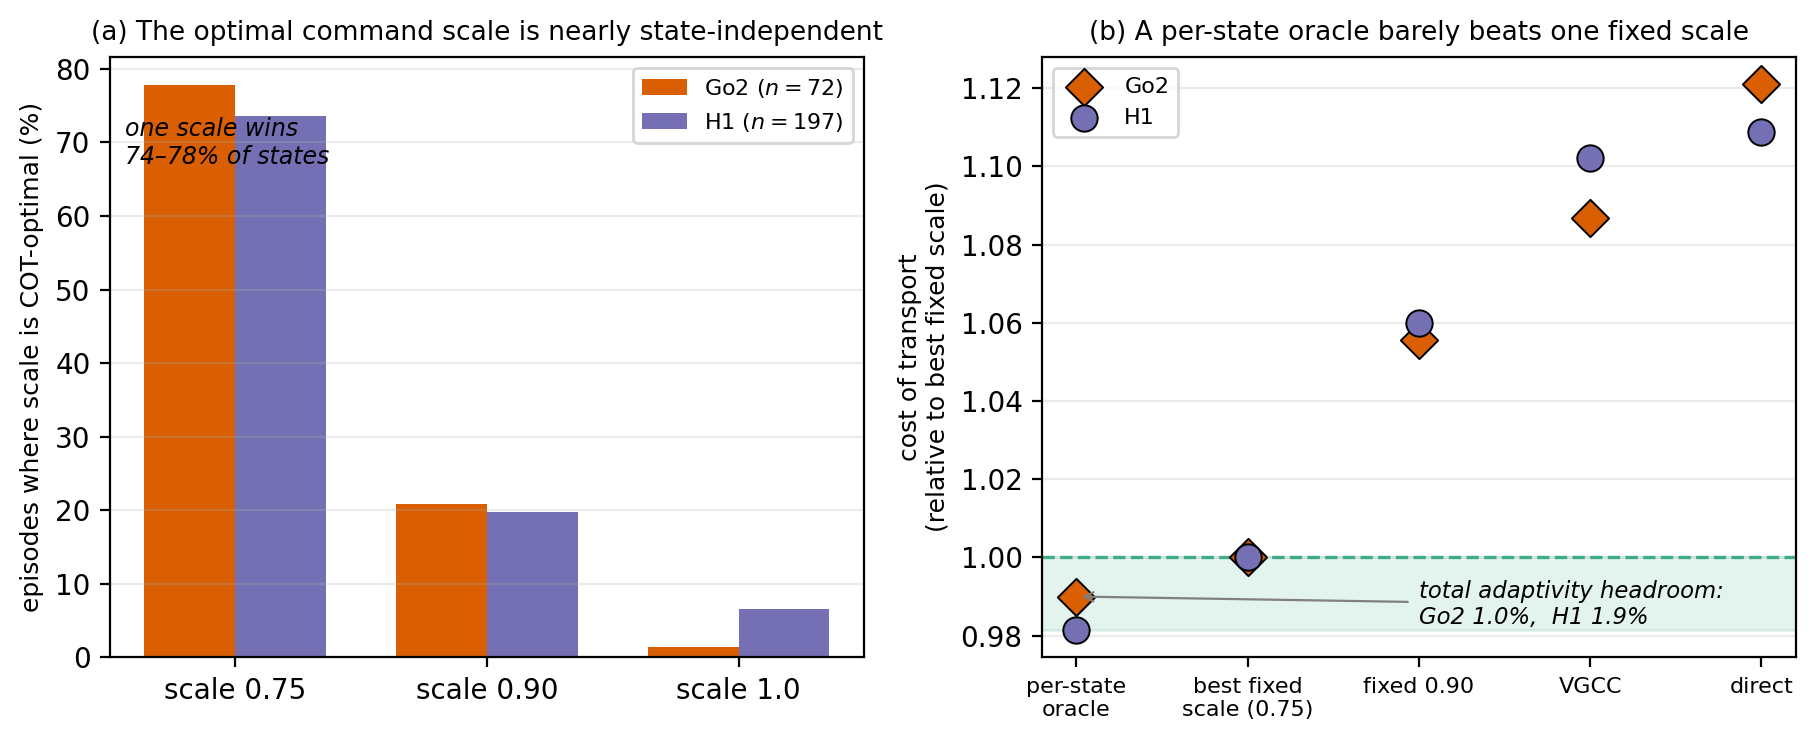
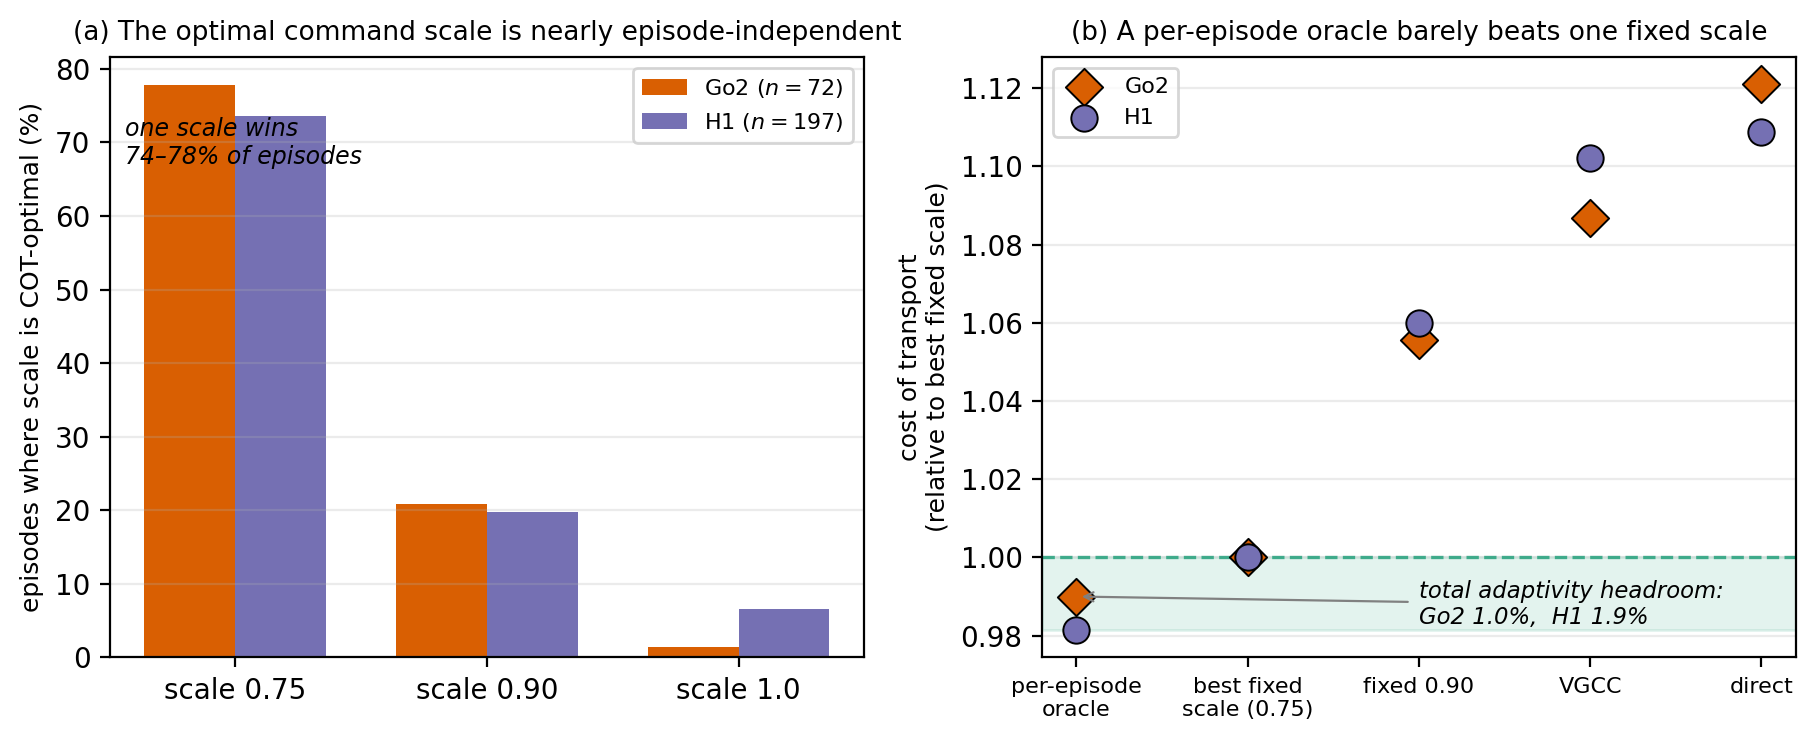
Scope the oracle claims honestly; add implementation appendix
The oracle picks one scale per episode from a three-point grid, so it
bounds episode-level scale selection, not any state-conditioned
controller: rename "per-state oracle" to "per-episode oracle"
throughout (text, figure labels, and the regenerated finding figure),
state explicitly that per-step methods like VGCC and the sampling MPC
are not formally bounded by it but empirically never undercut the best
fixed scale, and note the 2% figure is specific to the scale grid.
Tighten the abstract, contribution 3, and conclusion from "any
command-level controller" to command scaling, and fix the Q1 "main
result" label to "core method" (the central finding is Q3).

New Appendix A documents the values the paper never stated, verified
against the launch scripts: excitation protocol, response-model
architecture and training (2x256 ReLU MLP, AdamW), gate scalars
(s=0.75, alpha=0.5, epsilon=0.1, eta=0.02 m, E=4), posture floors, and
the MPC configuration. Section 3.2 pointed to protocol details that did
not exist; it now points here. finding_data.json moves into the repo so
the figure regenerates without the volatile scratch path.

diff --git a/paper/main.tex b/paper/main.tex
@@ -45,13 +45,14 @@ $R^2\approx0.75$ to $0.8$, from about a minute of simulation; terrain-relative p
 labels are essential). We use the model in two modes. As a controller, a
 training-free viability-gated compensator lowers the deployed policy's running cost
 and mechanical work across three embodiments (Go2, ANYmal-D, H1). As a measurement,
-it lets us bound the efficiency available at the command interface: from identical
-initial states, an omniscient per-state oracle beats the best single fixed command
-scale by under $2\%$, because the interface exposes almost no state-dependent
-efficiency structure. No learned per-state controller, ours or a heavier sampling
-MPC, clears that ceiling. Command-level efficiency compensation of a frozen
-locomotion policy therefore has a low and measurable ceiling; the contributions are
-the identification method that exposes it and the evaluation that measures it.
+it lets us bound the efficiency available from command scaling at that interface:
+from identical initial states, an omniscient per-episode oracle beats the best
+single fixed command scale by under $2\%$, because the efficiency-optimal scale is
+nearly the same in every episode. No state-conditioned controller we evaluate, ours
+or a heavier sampling MPC, clears that ceiling. Efficiency compensation by command
+scaling therefore has a low and measurable ceiling on these locomotion policies;
+the contributions are the identification method that exposes it and the evaluation
+that measures it.
 \end{abstract}
 
 \keywords{closed-loop system identification \and frozen policies \and command-interface control \and learned dynamics models \and legged locomotion}
@@ -97,16 +98,17 @@ about the policy, is \emph{measurement}. Because the model predicts the situatio
 cost of every command, it lets us ask a question that logically precedes any
 controller: how much efficiency is there to gain at the command interface at all? We
 answer it against ground truth. From identical initial states we trace the
-cost-of-transport--time frontier of command-level efficiency and bound it with an
-omniscient per-state oracle and a same-budget sampling MPC. The finding is sharp: the
-frontier is \emph{narrow}. A single tuned fixed command scale lies within $2\%$ of an
-oracle that picks the best scale for every state, because the policy's command
-interface exposes almost no state-dependent efficiency structure, and no learned
-per-state gate, VGCC or a heavier MPC, clears that ceiling. This reframes a growing
-family of methods that improve frozen policies at the command interface: for
-\emph{efficiency} on rough-terrain locomotion, the achievable gain over a well-chosen
-fixed command is bounded and small, and the identification method is precisely the
-instrument that measures that bound before one invests in a controller.
+cost-of-transport--time frontier of command scaling and bound it with an
+omniscient per-episode oracle and a same-budget sampling MPC. The finding is sharp:
+the frontier is \emph{narrow}. A single tuned fixed command scale lies within $2\%$
+of an oracle that picks the best scale for every episode, because the
+efficiency-optimal scale barely varies from episode to episode, and no
+state-conditioned method we test, VGCC or a heavier MPC, clears that ceiling. This
+reframes a growing family of methods that improve frozen policies at the command
+interface: for \emph{efficiency} on rough-terrain locomotion, the gain available
+from state-conditioned command scaling over a well-chosen fixed scale is bounded
+and small, and the identification method is precisely the instrument that measures
+that bound before one invests in a controller.
 
 \textbf{Contributions.}
 (1)~A method for closed-loop command-response identification of a frozen,
@@ -118,10 +120,10 @@ improves the deployed proportional baseline across three embodiments (Go2, ANYma
 H1) with one configuration and an exact fallback.
 (3)~A measurement, enabled by the identified model and validated against ground
 truth: through paired, iso-time, oracle, and same-budget-MPC analyses we show that
-the cost-of-transport frontier of command-level efficiency is narrow: a tuned fixed
-command scale lies within $2\%$ of an omniscient per-state oracle, which bounds what
-\emph{any} command-level efficiency controller, learned or not, can buy on this
-policy class.
+the cost-of-transport frontier of command scaling is narrow: a tuned fixed command
+scale lies within $2\%$ of an omniscient per-episode oracle over the same scales, a
+bound on what episode-level scale selection, learned or not, can buy on these
+policies, and one that no state-conditioned method we evaluate escapes.
 
 \section{Related Work}
 \label{sec:related}
@@ -415,7 +417,8 @@ f_\phi : (o_t, c) \;\longmapsto\; \bigl(\widehat{\Delta x}, \widehat{\Delta y}, 
 where hats mark quantities \emph{predicted} by the model, plain symbols are
 measured, and $\hat C$ is the chosen cost channel. The implementation takes the
 full policy observation with its command component replaced by the candidate
-command; training and split details are reported in the experimental protocol.
+command; architecture, training, and split details are given in
+Appendix~\ref{app:impl}.
 Conditioning on the full observation is what makes the predictions
 \emph{situational}: the same candidate command is predicted to cost differently on
 different terrain and from different gait states, which is precisely the
@@ -487,7 +490,7 @@ compensation and issues the aggressive direct command until height recovers
 (\emph{restore}). Both reflexes default toward, not away from, the strong direct
 controller, preserving R2. The model is thus a veto on a known low-cost operating
 point, not an unconstrained optimizer. All scalars are selected on development
-seeds and frozen before confirmation.
+seeds and frozen before confirmation; Appendix~\ref{app:impl} lists their values.
 
 \begin{algorithm}[t]
 \caption{Viability-Gated Command Compensation (one high-level step)}
@@ -523,7 +526,7 @@ fallback everywhere else.
 \label{sec:results}
 
 The experiments follow the structure of the method. \textbf{Q1 (identification,
-the main result)}: how accurately and how cheaply can the closed-loop command
+the core method)}: how accurately and how cheaply can the closed-loop command
 response be identified, and what labeling makes it work
 (Section~\ref{sec:results-model})? \textbf{Q2 (application)}: does a compensator
 built on the identified model improve the deployed proportional baseline, and does a
@@ -536,7 +539,7 @@ state-dependent efficiency structure does the command interface expose at all
 (Sections~\ref{sec:results-baselines}--\ref{sec:results-headroom})? Q1 establishes the
 method; Q2 shows what the identified model lets us \emph{do}; Q3 shows what it lets us
 \emph{conclude}. The conclusion, that a tuned fixed scale is within $2\%$ of an
-omniscient per-state oracle, is the result we consider most important.
+omniscient per-episode oracle, is the result we consider most important.
 
 \subsection{Setup}
 \label{sec:setup}
@@ -618,7 +621,8 @@ morphology-adapted transfer, not zero-tuning transfer.
 All reported results use disjoint evaluation seeds: harder $5$ seeds $\times$ $10$
 trials $\times$ $8$ targets (400 episodes per method), moderate $3\times10$ (120),
 holdout $3\times5$ (60), ANYmal-D $3\times5\times8$ (120), H1 $3\times5\times8$
-(120). Per-robot response models are identified with the identical recipe.
+(120). Per-robot response models are identified with the identical recipe
+(Appendix~\ref{app:impl}).
 We report episode-level bootstrap 95\% CIs as descriptive uncertainty summaries.
 Because episodes share a small number of environment seeds, these intervals do not
 establish equivalence or noninferiority; paired seed-level differences are
@@ -757,7 +761,8 @@ frontier (Figure~\ref{fig:frontier}).
 
 A more elaborate use of the model does not close the gap. A same-budget sampling MPC,
 which plans recursively over the scales $\{0.75,0.90,1.0\}$ with the identified model
-instead of applying VGCC's viability gate, was run paired on three of the six seeds.
+instead of applying VGCC's viability gate (Appendix~\ref{app:impl}), was run paired
+on three of the six seeds.
 It reaches COT $0.757$, below direct control ($0.765$) but above both VGCC ($0.736$)
 and fixed $0.90$ ($0.721$). Planning more elaborately over the same model beats
 neither the fixed scale nor VGCC, for the reason Section~\ref{sec:results-headroom}
@@ -796,7 +801,7 @@ reactive governor & 0.771 & 128.51 & 44.69 & 2.947 & 0.740 \\
 \begin{figure}[t]
 \centering
 \includegraphics[width=0.72\linewidth]{frontier.png}
-\caption{Cost of transport versus completion time on six locked seeds (Go2 harder targets, $n=96$/method, identical initial states). The dashed line is the frontier traced by the direct policy and two fixed command scales. VGCC reduces COT relative to direct control but sits just above the fixed-scaling frontier, while attaining the highest success ($0.80$). The reactive governor is dominated. VGCC's advantage is not frontier dominance but that a single configuration reaches this near-frontier operating point with no pre-selected scale, keeps the highest success, and (Section~\ref{sec:results-coverage}) transfers across the command space and across embodiments, where a fixed scale must be chosen per robot and per deadline in advance. The narrow vertical spread of all methods anticipates Section~\ref{sec:results-headroom}: even an omniscient per-state oracle barely improves on the fixed scale (Figure~\ref{fig:finding}), so this band is close to all that command-level efficiency can buy.}
+\caption{Cost of transport versus completion time on six locked seeds (Go2 harder targets, $n=96$/method, identical initial states). The dashed line is the frontier traced by the direct policy and two fixed command scales. VGCC reduces COT relative to direct control but sits just above the fixed-scaling frontier, while attaining the highest success ($0.80$). The reactive governor is dominated. VGCC's advantage is not frontier dominance but that a single configuration reaches this near-frontier operating point with no pre-selected scale, keeps the highest success, and (Section~\ref{sec:results-coverage}) transfers across the command space and across embodiments, where a fixed scale must be chosen per robot and per deadline in advance. The narrow vertical spread of all methods anticipates Section~\ref{sec:results-headroom}: even an omniscient per-episode oracle barely improves on the fixed scale (Figure~\ref{fig:finding}), so this band is close to all that command scaling can buy.}
 \label{fig:frontier}
 \end{figure}
 
@@ -806,45 +811,53 @@ reactive governor & 0.771 & 128.51 & 44.69 & 2.947 & 0.740 \\
 \begin{figure}[t]
 \centering
 \includegraphics[width=\linewidth]{finding.png}
-\caption{The paper's central finding, on paired-successful episodes (identical initial states). \textbf{(a)} The COT-optimal command scale is nearly the same in every state: a single scale is optimal in $74$--$78\%$ of episodes on both robots, so there is little for a state-conditioned controller to specialize to. \textbf{(b)} Cost of transport relative to the best single fixed scale ($=1$): an \emph{omniscient} per-state oracle that picks the best scale for every episode lies only $1.0\%$ (Go2) and $1.9\%$ (H1) below that fixed scale; the entire shaded band is the total adaptivity headroom available to \emph{any} state-conditioned method. VGCC and direct control sit above the fixed scale, not because they model the policy poorly but because the headroom they compete for is nearly empty.}
+\caption{The paper's central finding, on paired-successful episodes (identical initial states). \textbf{(a)} The COT-optimal command scale is nearly the same in every episode: a single scale is optimal in $74$--$78\%$ of episodes on both robots, so there is little for a scale selector to specialize to. \textbf{(b)} Cost of transport relative to the best single fixed scale ($=1$): an \emph{omniscient} per-episode oracle that picks the best scale for every episode lies only $1.0\%$ (Go2) and $1.9\%$ (H1) below that fixed scale; the entire shaded band is the episode-level adaptivity headroom available to scale selection. VGCC and direct control sit above the fixed scale, not because they model the policy poorly but because the headroom they compete for is nearly empty.}
 \label{fig:finding}
 \end{figure}
 
 The comparisons so far are between specific controllers. The identified model lets us
-ask the question underneath them, the one that determines whether \emph{any}
-state-conditioned command-level controller can succeed here: how much
-state-dependent efficiency structure does the policy's command interface expose? If
-the efficiency-optimal command scale is nearly the same in every state, then no
-per-state gate, however good its model, can beat a single well-chosen scale, and the
-entire enterprise of learned command-level efficiency compensation has a low ceiling.
-We measure that ceiling directly.
+ask the question underneath them, the one that determines whether a
+state-conditioned command-scaling controller can succeed here: how much
+situation-dependent efficiency structure does the policy's command interface expose?
+If the efficiency-optimal command scale is nearly the same in every situation, then
+no state-conditioned gate, however good its model, can beat a single well-chosen
+scale, and learned command-scaling compensation has a low ceiling.
+We measure the episode-level component of that ceiling directly.
 
 For every episode we have the ground-truth cost of transport of the direct command
 ($1.0$), fixed $0.90$, and fixed $0.75$ from identical initial states. We compare the
 best single \emph{global} scale (minimizing pooled COT) against an \emph{oracle} that
-picks the best scale \emph{per episode}. The oracle is an upper bound on what any
-state-conditioned selector (VGCC, a sampling MPC, or a future method with a perfect
-model) could extract from this command set; the gap between it and the best global
-scale is the total adaptivity headroom that exists to be won.
+picks the best scale \emph{per episode}. The oracle upper-bounds what any selector
+that holds one scale from this set for the whole episode could extract; the gap
+between it and the best global scale is the episode-level adaptivity headroom that
+exists to be won. A per-step switch (VGCC) or plan (the sampling MPC) is not
+formally bounded by an episode-level oracle, but neither undercuts even the best
+fixed scale in Table~\ref{tab:objective-audit}, let alone the oracle; corrections
+outside the scale family (redirecting or re-timing the command) remain unmeasured.
 
-That headroom is almost nothing (Figure~\ref{fig:finding}): the per-state oracle
+That headroom is almost nothing (Figure~\ref{fig:finding}): the per-episode oracle
 improves on the best single scale by only $1.0\%$ on Go2 ($n=72$ fully successful
 paired episodes) and $1.9\%$ on H1 ($n=197$). The per-episode winners show why: the
 most aggressive available slowdown wins $78\%$ of Go2 episodes and $74\%$ of H1
 episodes, and COT falls monotonically as the scale drops, so the efficiency-optimal
-command is a near-constant global slowdown, not a state-dependent choice. This single
+command is a near-constant global slowdown, not an episode-dependent choice. This single
 measurement explains the entire pattern of results in this section: VGCC lands just
 above the fixed scale, the sampling MPC lands even further off, and the reactive
 governor is dominated, not because any of them models the policy poorly, but because
-the state-dependent structure they exist to exploit is nearly absent. The identification method that a practitioner would use to
+the situational structure they exist to exploit is nearly absent. The identification method that a practitioner would use to
 \emph{attempt} the compensation is thus also the cheapest instrument for discovering,
 in advance, that the compensation is not worth deploying: on this policy class, a
-well-chosen fixed command scale is within $2\%$ of optimal, and command-level
-efficiency compensation is a solved, low-ceiling problem.
+well-chosen fixed command scale is within $2\%$ of the per-episode optimum, and
+command-scaling efficiency compensation is a solved, low-ceiling problem.
 
 We are careful about scope. This bound is measured on rough-terrain reaching with
-these three policies; it is exactly the regime in which the argument is hardest for
-us, because uniform roughness makes one global slowdown near-optimal. On genuinely
+these three policies, the regime least favorable to adaptivity, because uniform
+roughness makes one global slowdown near-optimal. It is also specific to what the
+oracle searches: episode-constant scales from the three-point grid a deployment
+would sweep. Both the best fixed scale and the oracle would move with a denser or
+lower grid, so the $2\%$ figure is specific to this grid, and within-episode
+schedules, which an episode-level oracle does not bound, are probed only at
+development scale (Section~\ref{sec:limitations}). On genuinely
 heterogeneous terrain, where different regions call for different scales, the oracle
 gap should widen and a learned gate could in principle win; Section~\ref{sec:limitations}
 frames that as the decisive open experiment. The contribution here is not that
@@ -982,10 +995,10 @@ The fixed-scaling and reactive-governor baselines show that the interesting
 comparison is against the speed--energy frontier, and VGCC does not dominate it. The
 oracle analysis (Section~\ref{sec:results-headroom}) makes clear this is not merely a
 modeling shortfall to be closed with a better response model: on uniform rough
-terrain the best command scale is nearly state-independent, so even a perfect
-state-conditioned selector gains under $2\%$ over a single fixed scale. A learned
-per-state gate can only beat a fixed scale where the efficiency-optimal command
-genuinely varies with state. Demonstrating that, most plausibly on heterogeneous
+terrain the best command scale is nearly episode-independent, so even a perfect
+per-episode scale selector gains under $2\%$ over a single fixed scale. A learned
+state-conditioned gate can only beat a fixed scale where the efficiency-optimal
+command genuinely varies with state. Demonstrating that, most plausibly on heterogeneous
 terrain under a completion-time budget where different regions call for different
 scales, is the decisive open experiment for command-level efficiency compensation,
 and until it is done a well-tuned fixed scale remains the stronger baseline on cost
@@ -1035,23 +1048,23 @@ efficient scaled command, robustly reduces the deployed policy's running cost an
 mechanical work below the proportional baseline across three embodiments, with an
 exact fallback and no retraining. As a \emph{measurement}, the same model turns a
 vague design question into a number: from identical initial states we bound the
-cost-of-transport frontier of command-level efficiency with a per-state oracle and a
+cost-of-transport frontier of command scaling with a per-episode oracle and a
 same-budget MPC, and find it narrow: a tuned fixed command scale is within $2\%$ of
-an omniscient per-state selector, because the policy's command interface exposes
-almost no state-dependent efficiency structure to exploit.
+an omniscient per-episode selector, because the efficiency-optimal scale is nearly
+the same in every episode.
 
 This is the paper's central result, and it is a boundary as much as a method. It says
-that for \emph{efficiency} on rough-terrain locomotion, the large and growing family
-of command-level policy-improvement schemes is chasing a small prize: over a
-well-chosen fixed command, the achievable gain is bounded, and neither our gate nor a
+that for \emph{efficiency} on rough-terrain locomotion, command-level schemes that
+rescale a frozen policy's commands are chasing a small prize: over a well-chosen
+fixed scale, the achievable episode-level gain is bounded, and neither our gate nor a
 heavier planner clears it. The value of the identification is that it makes this
 verdict cheap and predictive: a practitioner can fit the model in a minute of
 simulation and read off, before building any controller, whether the command
 interface carries enough state-dependent structure to be worth a learned one. Where
 we expect that structure to appear, and the frontier to open up, is heterogeneous
 terrain under an explicit completion-time budget; establishing whether a learned
-per-state gate can then strictly dominate a fixed scale, on hardware and with true
-energy measurement, is the experiment this study most directly motivates.
+state-conditioned gate can then strictly dominate a fixed scale, on hardware and with
+true energy measurement, is the experiment this study most directly motivates.
 
 \subsubsection*{Reproducibility}
 All experiments use public Isaac Lab environments and public pretrained RSL-RL

diff --git a/paper/appendix.tex b/paper/appendix.tex
@@ -1,3 +1,50 @@
+\section{Implementation Details}
+\label{app:impl}
+
+All values below are the ones used for the paper's experiments; the exact launch
+commands are in the project repository.
+
+\textbf{Excitation and dataset.}
+Excitation overrides the converged policy's command with commands drawn uniformly
+over the admissible box $[-1,1]^3$ in $(v_x, v_y, \omega_z)$, resampled every 25
+low-level steps; with probability $0.3$ the drawn command is scaled by $0.3$,
+oversampling the low-magnitude regime that proportional control visits near the
+goal. Collection runs 64 parallel environments (8{,}000 steps per environment for
+H1). Constant-command windows of 16 low-level steps ($0.32$\,s at the 50\,Hz
+control rate) are sliced at stride 4 within episodes, giving the $\approx$25k Go2
+windows of Table~\ref{tab:model}. Terrain-relative height labels are recovered
+from the policy's own height-scan observation (mean scan return plus its
+$0.5$\,m sensor offset).
+
+\textbf{Response model and training.}
+$f_\phi$ is a multilayer perceptron with two hidden layers of width 256 (ReLU,
+dropout $0.1$), mapping the full policy observation, with the command slice
+replaced by the candidate command, to the six response targets; inputs and
+targets are standardized. Training uses AdamW (learning rate $10^{-3}$, weight
+decay $10^{-4}$), batch size 1{,}024, 200 epochs, keeping the checkpoint with the
+best held-out loss. The held-out set is $20\%$ of episode groups, so no episode
+straddles the split; Table~\ref{tab:model} reports this held-out set. The
+torque-derived mechanical-power channel is identified with the same recipe by a
+five-member ensemble.
+
+\textbf{Controller constants.}
+One high-level decision is taken every $E=4$ low-level steps. The gate scalars
+shared by all three robots are: nominal scale $s=0.75$, correction gain
+$\alpha=0.5$ (the executed compensated command is therefore
+$0.875\,c_{\text{goal}}$), progress floor $\beta=0.9$, cost margin
+$\epsilon=0.1$, and progress clamp $\eta=0.02$\,m. The morphology-dependent
+posture floors are the eligibility, rescue, and restore fractions of nominal
+height with the height-decline tolerance $\delta$: $(0.85, 0.80, 0.90)$ with
+$\delta=2$\,cm for both quadrupeds, $(0.93, 0.90, 0.96)$ with $\delta=0.8$\,cm
+for H1 (Section~\ref{sec:setup}).
+
+\textbf{Sampling MPC baseline.}
+The same-budget MPC of Section~\ref{sec:results-baselines} plans over per-step
+scale sequences drawn from $\{0.75, 0.90, 1.00\}$ with planning depth 4
+high-level steps, rolling the identified models forward, and executes the first
+command of the best sequence; it shares the response model, decision rate, and
+command bounds with VGCC.
+
 \section{Secondary Experiments and Diagnostics}
 \label{app:secondary}
 

diff --git a/scripts/make_finding_figure.py b/scripts/make_finding_figure.py
@@ -1,7 +1,7 @@
 #!/usr/bin/env python3
 """Central-finding figure: the command interface exposes little state-dependent
 efficiency headroom. (a) the per-episode optimal command scale is nearly constant;
-(b) an omniscient per-state oracle barely beats the best single fixed scale.
+(b) an omniscient per-episode oracle barely beats the best single fixed scale.
 Data computed on paired-successful episodes (identical initial states)."""
 import json
 import matplotlib
@@ -9,7 +9,7 @@ matplotlib.use("Agg")
 import matplotlib.pyplot as plt
 import numpy as np
 
-D = json.load(open("/tmp/claude-1000/-home-thing1-skill-discover/ce49fb81-69ac-4332-8458-218dbe336606/scratchpad/finding.json"))
+D = json.load(open("paper/figures/finding_data.json"))
 go2, h1 = D["go2"], D["h1"]
 
 fig, (axA, axB) = plt.subplots(1, 2, figsize=(9.2, 3.8))
@@ -23,16 +23,16 @@ axA.bar(x - w/2, [100*v for v in gw], w, label=f"Go2 ($n{{=}}{go2['n']}$)", colo
 axA.bar(x + w/2, [100*v for v in hw], w, label=f"H1 ($n{{=}}{h1['n']}$)", color="#7570b3")
 axA.set_xticks(x); axA.set_xticklabels([f"scale {s}" for s in scales])
 axA.set_ylabel("episodes where scale is COT-optimal (%)", fontsize=9)
-axA.set_title("(a) The optimal command scale is nearly state-independent", fontsize=9.5)
+axA.set_title("(a) The optimal command scale is nearly episode-independent", fontsize=9.5)
 axA.legend(fontsize=8, loc="upper right"); axA.grid(axis="y", alpha=0.25)
-axA.text(0.02, 0.90, "one scale wins\n74–78% of states", transform=axA.transAxes,
+axA.text(0.02, 0.90, "one scale wins\n74–78% of episodes", transform=axA.transAxes,
          fontsize=8.5, style="italic", va="top")
 
 # ---- Panel (b): COT relative to best single fixed scale ----
 def rel(r):
     b = r["scaleCOT"]["scaled_target_command_75"]
     return {
-        "per-state\noracle": r["oracle"]/b,
+        "per-episode\noracle": r["oracle"]/b,
         "best fixed\nscale (0.75)": 1.0,
         "fixed 0.90": r["scaleCOT"]["scaled_target_command_90"]/b,
         "VGCC": r["vgcc"]/b,
@@ -43,7 +43,7 @@ labels = list(g.keys())
 xi = np.arange(len(labels))
 axB.axhline(1.0, color="#1b9e77", lw=1.2, ls="--", alpha=0.8)
 # shade the achievable headroom band (oracle..best fixed)
-axB.axhspan(min(g["per-state\noracle"], h["per-state\noracle"]), 1.0,
+axB.axhspan(min(g["per-episode\noracle"], h["per-episode\noracle"]), 1.0,
             color="#1b9e77", alpha=0.12)
 axB.scatter(xi, [g[l] for l in labels], s=90, marker="D", color="#d95f02",
             edgecolors="black", linewidths=0.7, zorder=3, label=f"Go2")
@@ -51,7 +51,7 @@ axB.scatter(xi, [h[l] for l in labels], s=90, marker="o", color="#7570b3",
             edgecolors="black", linewidths=0.7, zorder=3, label=f"H1")
 axB.set_xticks(xi); axB.set_xticklabels(labels, fontsize=8)
 axB.set_ylabel("cost of transport\n(relative to best fixed scale)", fontsize=9)
-axB.set_title("(b) A per-state oracle barely beats one fixed scale", fontsize=9.5)
+axB.set_title("(b) A per-episode oracle barely beats one fixed scale", fontsize=9.5)
 axB.legend(fontsize=8, loc="upper left")
 axB.grid(axis="y", alpha=0.25)
 axB.annotate(f"total adaptivity headroom:\nGo2 {100*(1-go2['oracle']/go2['scaleCOT']['scaled_target_command_75']):.1f}%,  "